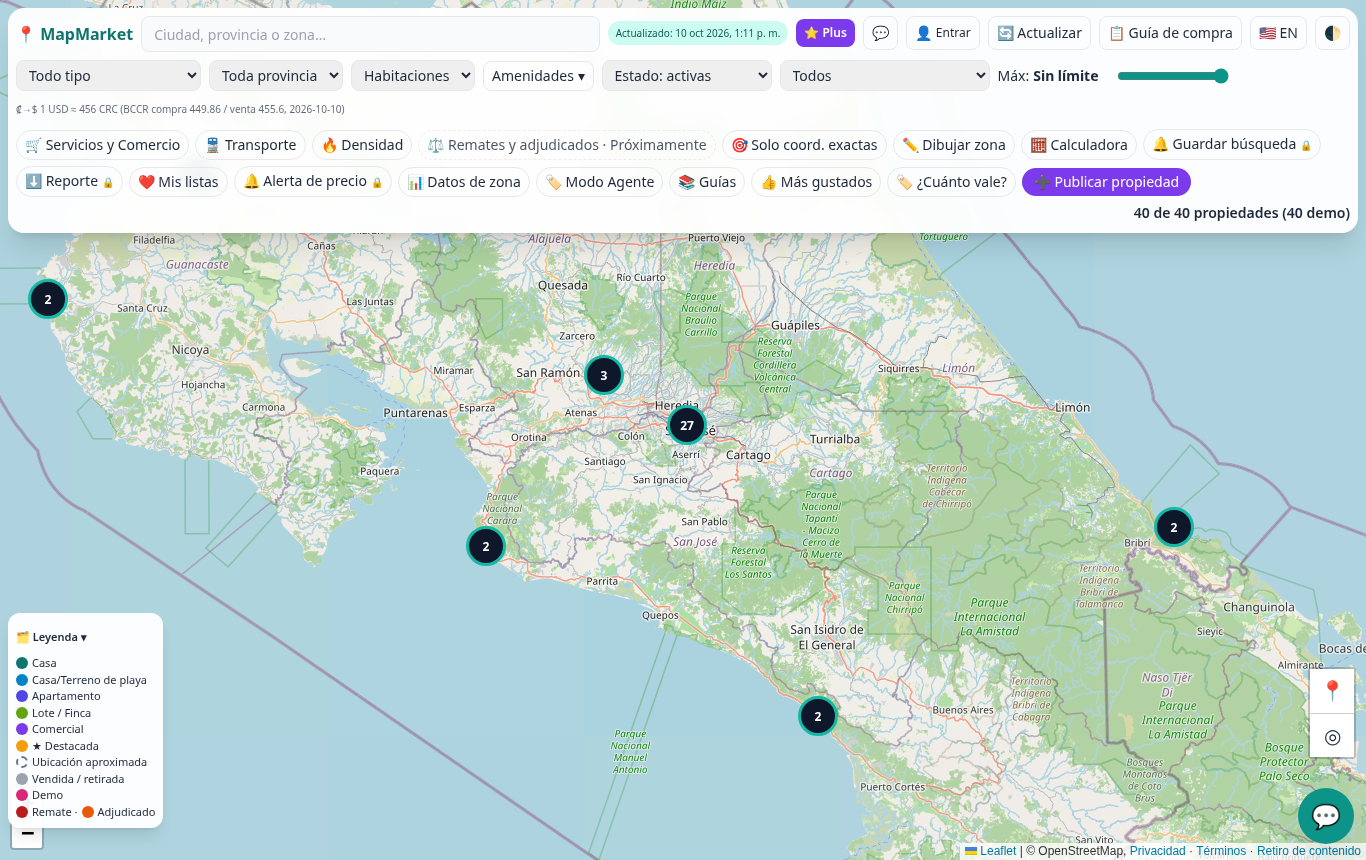
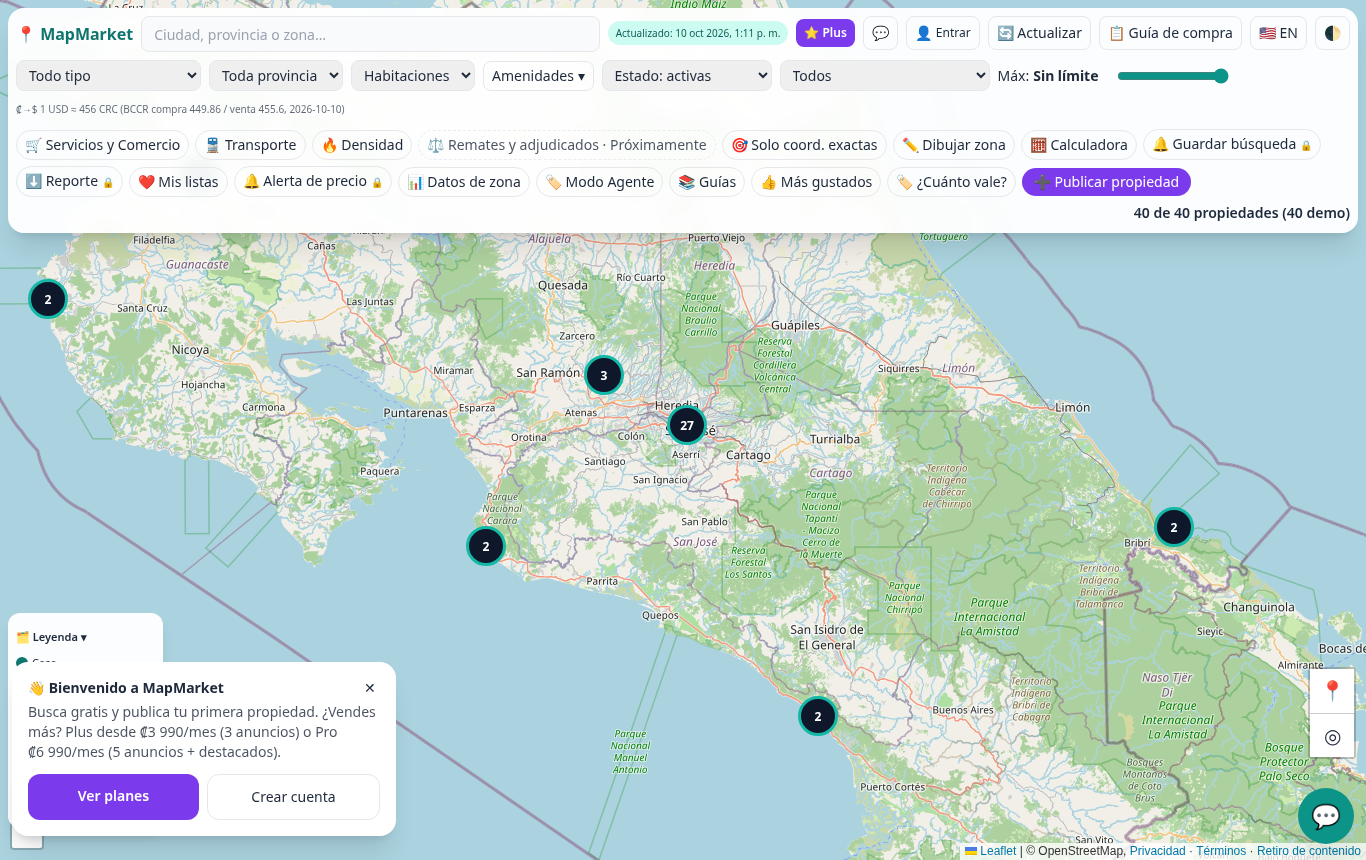
Admin: Reportes agrupados con acciones directas, Retiros y Fotos reportadas (v12 RPCs + auditoría); i18n: sufijos calculadora, caché de diccionario y pintado temprano

Changed region(s): [[0.0, 0.7558, 0.3075, 0.9977]]

diff --git a/js/admin-gestion.js b/js/admin-gestion.js
@@ -105,6 +105,104 @@
     return `<div class="overflow-x-auto"><table class="w-full text-xs bg-white dark:bg-slate-800 rounded-xl"><tr class="text-left opacity-60"><th class="p-2">Cuándo</th><th>Admin</th><th>Acción</th><th>Objetivo</th><th>Detalle</th><th>Nota</th></tr>${data.map(r => `<tr class="border-t dark:border-slate-700 align-top"><td class="p-2 whitespace-nowrap">${d(r.created_at)}</td><td>${E((r.admin_id || '').slice(0, 8))}</td><td>${E(r.accion)}</td><td>${E((r.objetivo_id || '').slice(0, 8))}</td><td class="max-w-[320px] break-all">${E(JSON.stringify(r.detalle))}</td><td>${E(r.nota || '')}</td></tr>`).join('')}</table></div>`;
   }];
 
+  // ---------- Reportes (agrupados por anuncio, con acciones directas) ----------
+  const R = { e: 'abierto', q: '' };
+  const MOT = { vendida: 'Ya se vendió', datos: 'Datos incorrectos', duplicado: 'Duplicado', fraude: 'Fraude/estafa', otro: 'Otro' };
+  const chip = (t, c = 'bg-slate-100 text-slate-700 dark:bg-slate-700 dark:text-slate-100') => `<span class="text-xs rounded-full px-2 ${c}">${E(t)}</span>`;
+  const uuidDe = pid => { const m = String(pid || '').match(/^u-([0-9a-f-]{36})$/i); return m ? m[1] : null };
+  T.reportes = ['🚩 Reportes', async () => {
+    let qy = C.from('reportes').select('*').order('created_at', { ascending: false }).limit(500);
+    qy = R.e === 'abierto' ? qy.eq('estado', 'nuevo') : R.e === 'cerrado' ? qy.neq('estado', 'nuevo') : qy;
+    const [r, u] = await Promise.all([qy, C.from('reportes_usuarios').select('*').order('created_at', { ascending: false }).limit(100)]); if (r.error) throw r.error;
+    const G = {}; r.data.forEach(x => (G[x.property_id] = G[x.property_id] || []).push(x));
+    const uids = [...new Set(Object.keys(G).map(uuidDe).filter(Boolean))];
+    const an = uids.length ? ((await C.from('anuncios').select('id,titulo,precio,moneda,estado,imagenes,owner_id,provincia,tipo,lat,lon,descripcion').in('id', uids)).data || []) : [];
+    const AN = Object.fromEntries(an.map(a => [a.id, a]));
+    const owners = [...new Set(an.map(a => a.owner_id).filter(Boolean))];
+    const pf = owners.length ? ((await C.from('profiles').select('id,nombre,baneado').in('id', owners)).data || []) : [];
+    const PF = Object.fromEntries(pf.map(p => [p.id, p]));
+    let grupos = Object.entries(G).map(([pid, rs]) => ({ pid, rs, a: AN[uuidDe(pid)] }));
+    if (R.q) { const q = R.q.toLowerCase(); grupos = grupos.filter(g => (g.pid + ' ' + (g.a?.titulo || '')).toLowerCase().includes(q)) }
+    grupos.sort((x, y) => y.rs.length - x.rs.length);
+    bind(async (g, b, card) => {
+      if (g === 'filtrar') { R.e = $('rE').value; R.q = $('rQ').value.trim(); return rerender() }
+      if (g === 'todos') { document.querySelectorAll('#out input.gsel').forEach(x => x.checked = b.dataset.on !== '1'); b.dataset.on = b.dataset.on === '1' ? '0' : '1'; return }
+      const [acc, m] = g.split(':'); const cards = m ? sel().map(v => document.querySelector(`#out [data-id="${CSS.escape(v)}"]`)).filter(Boolean) : [card];
+      if (!cards.length) return alert('Selecciona reportes');
+      const repIds = cards.flatMap(c => c.dataset.rids.split(',').map(Number));
+      if (acc === 'resuelto' || acc === 'descartado' || acc === 'reabrir') { const nota = await ask(`${acc === 'reabrir' ? 'Reabrir' : acc === 'resuelto' ? 'Marcar resuelto' : 'Descartar'}: ${repIds.length} reporte(s). Nota:`); if (nota === null) return; await rpc('admin_reportes', { ids: repIds, accion: acc, nota: nota || null }); return rerender() }
+      if (acc === 'mapa') { window.open('index.html?p=' + encodeURIComponent(card.dataset.pid), '_blank'); return }
+      if (acc === 'bloquear') { const o = card.dataset.owner; if (!o) return alert('Este anuncio no tiene dueño en MapMarket.'); const nota = await ask('¿Suspender al dueño (no podrá publicar) y pausar sus anuncios? Motivo:'); if (nota === null) return; await rpc('admin_bloquear_dueno', { uid: o, nota }); return rerender() }
+      const ids = cards.map(c => uuidDe(c.dataset.pid)).filter(Boolean); if (!ids.length) return alert('Solo se puede actuar sobre anuncios publicados en MapMarket.');
+      const ok = await Admin.anuncios(ids, acc, an); if (ok && acc === 'eliminar') await rpc('admin_reportes', { ids: repIds, accion: 'resuelto', nota: 'Anuncio eliminado' }); rerender()
+    });
+    const est = { aprobado: 'bg-emerald-100 text-emerald-900', pendiente: 'bg-amber-100 text-amber-900', pausado: 'bg-slate-200 text-slate-800', rechazado: 'bg-red-100 text-red-900' };
+    return `<div class="flex flex-wrap gap-2 mb-3"><select id="rE" aria-label="Estado" class="h-10 px-2 rounded-lg border dark:bg-slate-800">${[['abierto', 'Abiertos'], ['cerrado', 'Resueltos / descartados'], ['todos', 'Todos']].map(([v, t]) => `<option value="${v}" ${R.e === v ? 'selected' : ''}>${t}</option>`).join('')}</select><input id="rQ" value="${E(R.q)}" placeholder="Buscar anuncio" aria-label="Buscar anuncio" class="h-10 px-2 rounded-lg border dark:bg-slate-800 flex-1 min-w-[160px]">${btn('filtrar', 'Filtrar')}</div>
+      <div class="flex flex-wrap gap-1.5 mb-2 text-sm">${btn('todos', '☑ Seleccionar todo')}${btn('resuelto:m', '✔ Resolver sel.')}${btn('descartado:m', '✖ Descartar sel.')}${btn('pausar:m', 'Pausar sel.')}${btn('rechazar:m', 'Rechazar sel.')}${btn('eliminar:m', '🗑 Eliminar sel.', 'text-red-600')}</div>
+      <p class="text-xs opacity-70 mb-2">${grupos.length} anuncios · ${r.data.length} reportes</p>
+      ${grupos.map(({ pid, rs, a }) => { const o = a && PF[a.owner_id]; const cnt = {}; rs.forEach(x => cnt[x.motivo] = (cnt[x.motivo] || 0) + 1); const abiertos = rs.some(x => x.estado === 'nuevo');
+        return `<article data-id="${E(pid)}" data-pid="${E(pid)}" data-rids="${rs.map(x => x.id).join(',')}" data-owner="${a?.owner_id || ''}" class="bg-white dark:bg-slate-800 rounded-xl shadow p-3 mb-2 text-sm flex gap-3"><input type="checkbox" class="gsel w-5 h-5 mt-1" value="${E(pid)}" aria-label="Seleccionar">
+        ${a?.imagenes?.[0] ? `<img src="${E(a.imagenes[0])}" alt="Foto" loading="lazy" class="w-20 h-20 object-cover rounded">` : '<div class="w-20 h-20 rounded bg-slate-200 dark:bg-slate-700 flex items-center justify-center text-xs">Sin fotos</div>'}
+        <div class="flex-1 min-w-0"><div class="flex flex-wrap gap-1 items-center"><b>${E(a?.titulo || pid)}</b>${a ? chip(a.estado, est[a.estado]) : chip('sin dueño en MapMarket')}${chip('🚩 ' + rs.length, 'bg-red-100 text-red-900 dark:bg-red-900 dark:text-red-100')}${abiertos ? '' : chip('cerrado')}</div>
+          <div class="text-xs opacity-70">${a ? `${E(a.tipo)} · ${E(a.provincia)} · ${money(a)} · ` : ''}${o ? `Dueño: ${E(o.nombre || a.owner_id.slice(0, 8))}${o.baneado ? ' (suspendido)' : ''}` : ''}</div>
+          <div class="text-xs mt-1">${Object.entries(cnt).map(([k, v]) => chip(`${MOT[k] || k} ×${v}`, 'bg-amber-50 text-amber-900 dark:bg-amber-900/50 dark:text-amber-100')).join(' ')}</div>
+          <ul class="text-xs mt-1 opacity-80">${rs.slice(0, 5).map(x => `<li>${d(x.created_at)} · ${E(MOT[x.motivo] || x.motivo)}${x.detalle ? ': ' + E(x.detalle) : ''}${x.estado !== 'nuevo' ? ` · <i>${E(x.estado)}${x.nota_admin ? ' — ' + E(x.nota_admin) : ''}</i>` : ''}</li>`).join('')}${rs.length > 5 ? `<li>+${rs.length - 5}…</li>` : ''}</ul>
+          <div class="flex flex-wrap gap-1.5 mt-2">${btn('mapa', '🗺 Ver en mapa')}${a ? btn('editar', '✏ Editar') + (a.estado === 'pausado' ? btn('reactivar', '▶ Reactivar') : btn('pausar', '⏸ Pausar')) + btn('rechazar', '⛔ Rechazar') + btn('eliminar', '🗑 Eliminar', 'text-red-600') + (a.owner_id ? btn('bloquear', '🚫 Bloquear dueño') : '') : ''}${abiertos ? btn('resuelto', '✔ Resuelto') + btn('descartado', '✖ Descartar') : btn('reabrir', '↩ Reabrir')}</div></div></article>` }).join('') || '<p class="opacity-70">Sin reportes.</p>'}
+      <h2 class="font-bold mt-6">Usuarios reportados (chat)</h2>${(u.data || []).length ? '<ul class="text-sm mt-2 space-y-1">' + u.data.map(x => `<li class="bg-white dark:bg-slate-800 rounded p-2">${d(x.created_at)} · <a class="underline" href="mensajes.html?c=${x.conversacion_id}">conv #${x.conversacion_id ?? '–'}</a> · usuario ${E((x.reported_id || '').slice(0, 8))}… · ${E(x.motivo)}</li>`).join('') + '</ul>' : '<p class="opacity-70 text-sm">Ninguno.</p>'}`
+  }];
+
+  // ---------- Retiros ----------
+  const RT = { e: 'pendiente' };
+  T.retiros = ['📰 Retiros', async () => {
+    let qy = C.from('retiros').select('*').order('created_at', { ascending: false }).limit(300); if (RT.e !== 'todos') qy = RT.e === 'cerrado' ? qy.neq('estado', 'pendiente') : qy.eq('estado', RT.e);
+    const { data, error } = await qy; if (error) throw error;
+    const ref = x => { const m = String(x.listing_ref).match(/u-([0-9a-f-]{36})/i) || String(x.listing_ref).match(/([0-9a-f]{8}-[0-9a-f-]{27})/i); return m ? m[1] : null };
+    const ids = [...new Set(data.map(ref).filter(Boolean))];
+    const an = ids.length ? ((await C.from('anuncios').select('id,titulo,precio,moneda,estado,imagenes,owner_id,provincia,tipo').in('id', ids)).data || []) : []; const AN = Object.fromEntries(an.map(a => [a.id, a]));
+    bind(async (g, b, card) => {
+      if (g === 'filtrar') { RT.e = $('tE').value; return rerender() }
+      if (g === 'todos') { document.querySelectorAll('#out input.gsel').forEach(x => x.checked = true); return }
+      const [acc, m] = g.split(':'); const cards = m ? sel().map(v => document.querySelector(`#out [data-id="${v}"]`)).filter(Boolean) : [card]; if (!cards.length) return alert('Selecciona solicitudes');
+      const rids = cards.map(c => +c.dataset.id);
+      if (['retirado', 'corregido', 'rechazado', 'pendiente'].includes(acc)) { const nota = await ask(`Marcar ${rids.length} solicitud(es) como «${acc}». Nota:`); if (nota === null) return; await rpc('admin_retiros', { ids: rids, estado_nuevo: acc, nota: nota || null }); return rerender() }
+      if (acc === 'mapa') { window.open('index.html?p=' + encodeURIComponent('u-' + card.dataset.aid), '_blank'); return }
+      const aids = cards.map(c => c.dataset.aid).filter(Boolean); if (!aids.length) return alert('La solicitud no corresponde a un anuncio publicado en MapMarket.');
+      const ok = await Admin.anuncios(aids, acc, an); if (ok && (acc === 'eliminar' || acc === 'pausar')) await rpc('admin_retiros', { ids: rids, estado_nuevo: 'retirado', nota: 'Anuncio ' + acc }); rerender()
+    });
+    return `<div class="flex flex-wrap gap-2 mb-3"><select id="tE" aria-label="Estado" class="h-10 px-2 rounded-lg border dark:bg-slate-800">${[['pendiente', 'Pendientes'], ['cerrado', 'Atendidas'], ['todos', 'Todas']].map(([v, t]) => `<option value="${v}" ${RT.e === v ? 'selected' : ''}>${t}</option>`).join('')}</select>${btn('filtrar', 'Filtrar')}</div>
+      <div class="flex flex-wrap gap-1.5 mb-2 text-sm">${btn('todos', '☑ Seleccionar todo')}${btn('retirado:m', 'Marcar retirado sel.')}${btn('rechazado:m', 'Rechazar solicitud sel.')}${btn('pausar:m', 'Pausar anuncios sel.')}</div>
+      ${data.map(x => { const a = AN[ref(x)]; return `<article data-id="${x.id}" data-aid="${a?.id || ''}" class="bg-white dark:bg-slate-800 rounded-xl shadow p-3 mb-2 text-sm flex gap-3"><input type="checkbox" class="gsel w-5 h-5 mt-1" value="${x.id}" aria-label="Seleccionar">
+        ${a?.imagenes?.[0] ? `<img src="${E(a.imagenes[0])}" alt="Foto" loading="lazy" class="w-20 h-20 object-cover rounded">` : ''}
+        <div class="flex-1 min-w-0"><div class="flex flex-wrap gap-1 items-center"><b>${E(a?.titulo || x.listing_ref)}</b>${chip(x.estado, x.estado === 'pendiente' ? 'bg-amber-100 text-amber-900' : undefined)}${a ? chip('anuncio: ' + a.estado) : ''}<span class="text-xs opacity-60 ml-auto">${d(x.created_at)}</span></div>
+          ${a ? `<div class="text-xs opacity-70">${E(a.tipo)} · ${E(a.provincia)} · ${money(a)}</div>` : ''}
+          <p class="text-xs mt-1">${E(x.nombre)} (<a class="underline" href="mailto:${E(x.email)}?subject=${encodeURIComponent('Tu solicitud de retiro en MapMarket')}">${E(x.email)}</a>) · ${E(x.relacion)}</p><p class="text-xs opacity-80 whitespace-pre-wrap">${E(x.motivo)}</p>${x.nota_admin ? `<p class="text-xs italic opacity-70">Nota: ${E(x.nota_admin)}</p>` : ''}
+          <div class="flex flex-wrap gap-1.5 mt-2">${a ? btn('mapa', '🗺 Ver en mapa') + btn('editar', '✏ Editar') + (a.estado === 'pausado' ? btn('reactivar', '▶ Reactivar') : btn('pausar', '⏸ Pausar')) + btn('eliminar', '🗑 Eliminar', 'text-red-600') : ''}${btn('retirado', 'Marcar retirado')}${btn('corregido', 'Corregido')}${btn('rechazado', 'Rechazar solicitud')}${x.estado !== 'pendiente' ? btn('pendiente', '↩ Reabrir') : ''}</div></div></article>` }).join('') || '<p class="opacity-70">Sin solicitudes.</p>'}`
+  }];
+
+  // ---------- Fotos reportadas ----------
+  const FR = { e: 'abierto' };
+  T.fotosrep = ['📷 Fotos reportadas', async () => {
+    const data = await rpc('admin_lista_reportes_fotos', { p_estado: FR.e }) || [];
+    bind(async (g, b, card) => {
+      if (g === 'filtrar') { FR.e = $('fE').value; return rerender() }
+      if (g === 'ver') { b.closest('figure').querySelector('img').classList.toggle('blur-xl'); return }
+      if (g === 'todos') { document.querySelectorAll('#out input.gsel').forEach(x => x.checked = true); return }
+      const [acc, m] = g.split(':'); const figs = m ? sel().map(v => document.querySelector(`#out figure[data-id="${CSS.escape(v)}"]`)).filter(Boolean) : [card]; if (!figs.length) return alert('Selecciona imágenes');
+      const urls = figs.map(f => f.dataset.url), imgIds = figs.map(f => +f.dataset.img).filter(Boolean);
+      const nota = await ask(`${acc}: ${figs.length} foto(s). Nota:`); if (nota === null) return;
+      if (['aprobar', 'rechazar', 'eliminar', 'banear'].includes(acc)) {
+        if (!imgIds.length) return alert('Esta foto no está en la cola de moderación.');
+        if (acc === 'eliminar') { const paths = urls.map(u => u.split('/object/public/anuncios/')[1]).filter(Boolean); if (paths.length) await C.storage.from('anuncios').remove(paths) }
+        await rpc('admin_imagenes', { ids: imgIds, accion: acc, nota }); await rpc('admin_reportes_fotos', { urls, accion: acc === 'aprobar' ? 'descartado' : 'resuelto', nota });
+      } else await rpc('admin_reportes_fotos', { urls, accion: acc, nota });
+      rerender()
+    });
+    return `<div class="flex flex-wrap gap-2 mb-3"><select id="fE" aria-label="Estado" class="h-10 px-2 rounded-lg border dark:bg-slate-800">${[['abierto', 'Abiertos'], ['cerrado', 'Resueltos / descartados'], ['todos', 'Todos']].map(([v, t]) => `<option value="${v}" ${FR.e === v ? 'selected' : ''}>${t}</option>`).join('')}</select>${btn('filtrar', 'Filtrar')}</div>
+      <div class="flex flex-wrap gap-1.5 mb-2 text-sm">${btn('todos', '☑ Seleccionar todo')}${btn('rechazar:m', '⛔ Ocultar sel.')}${btn('aprobar:m', '✅ Aprobar sel.')}${btn('descartado:m', '✖ Descartar reportes sel.')}</div>
+      <div class="grid grid-cols-2 sm:grid-cols-3 lg:grid-cols-4 gap-3">${data.map((x, i) => `<figure data-id="f${i}" data-url="${E(x.url)}" data-img="${x.img_id || ''}" class="bg-white dark:bg-slate-800 rounded-xl shadow p-2 text-xs"><div class="relative overflow-hidden rounded"><input type="checkbox" class="gsel absolute top-1 left-1 w-5 h-5 z-10" value="f${i}" aria-label="Seleccionar"><img src="${E(x.url)}" alt="Imagen a revisar" loading="lazy" class="w-full h-32 object-cover blur-xl"></div>
+        <figcaption class="mt-1"><b>🚩 ${x.n}</b> · ${E(x.img_estado || 'sin moderación')}<div class="opacity-70">${E((x.motivos || []).join(', '))} · ${d(x.ultimo)}</div><div class="flex flex-wrap gap-1 mt-1">${btn('ver', '👁')}${btn('aprobar', '✅')}${btn('rechazar', '⛔')}${btn('eliminar', '🗑')}${x.owner_id ? btn('banear', '🚫 Ban') : ''}${FR.e === 'abierto' ? btn('descartado', '✖') : btn('reabrir', '↩')}</div></figcaption></figure>`).join('') || '<p class="opacity-70">Sin fotos reportadas.</p>'}</div>`
+  }];
+
   }
   // Acciones de anuncios compartidas (panel y ficha del mapa)
   window.Admin = {

diff --git a/js/i18n.js b/js/i18n.js
@@ -26,12 +26,16 @@
     [/^(\d+) anuncios? activos?$/, (m, n) => `${n} active listing${n === '1' ? '' : 's'}`],
     [/^Encontré (\d+) propiedad(es)?/, (m, n) => `I found ${n} propert${n === '1' ? 'y' : 'ies'}`],
   ];
+  const SUF = [[/\/mes\b/g, '/mo'], [/\/año\b/g, '/yr'], [/\(pago trimestral /g, '(paid quarterly '], [/; seguros aparte\./g, '; insurance not included.'], [/; cuota condominal /g, '; HOA fee '],
+    [/; posible impuesto solidario/g, '; possible luxury home tax'], [/\(construcción > ~₡143M: 0,25–0,55% anual\)/g, '(building > ~₡143M: 0.25–0.55% per year)'], [/^Cuota \+ condominio = /, 'Payment + HOA = '], [/% de tu ingreso → /g, '% of your income → '], [/ \+ condominio /g, ' + HOA '], [/\bpor encima\b/g, 'above'], [/\bpor debajo\b/g, 'below']];
+  const suf = s => { for (const [r, v] of SUF) s = s.replace(r, v); return s };
   const SKIP = 'SCRIPT,STYLE,NOSCRIPT,TEXTAREA,CODE,PRE,svg'.split(',');
   const done = new WeakMap();
   function trText(raw) {
     const k = raw.replace(/\s+/g, ' ').trim(); if (!k || !/[A-Za-zÁÉÍÓÚÑáéíóúñ]/.test(k)) return null;
     let t = D[k]; if (!t) for (const [r, f] of PAT) if (r.test(k)) { t = k.replace(r, f); break }
     if (!t) { const f = frag(k); if (f !== k) t = f }
+    { const b = t || k, u = suf(b); if (u !== b) t = u }
     if (!t || t === k) return null;
     const lead = raw.match(/^\s*/)[0], trail = raw.match(/\s*$/)[0]; return lead + t + trail;
   }
@@ -94,21 +98,36 @@
       try { return await ask(s) } finally { orig = null }
     };
   }
-  async function start() {
-    if (lang === 'en') {
-      try { D = await PRE } catch (e) { D = {} }
-      const keys = Object.keys(D).filter(k => k.length >= 8 && /\s/.test(k) && D[k] !== k).sort((a, b) => b.length - a.length).slice(0, 1500);
-      keys.forEach(k => RXmap[k] = D[k]);
-      if (keys.length) RX = new RegExp('(?<![\\wÁÉÍÓÚÑáéíóúñ])(' + keys.map(k => k.replace(/[.*+?^${}()|[\]\\]/g, '\\$&')).join('|') + ')(?![\\wÁÉÍÓÚÑáéíóúñ])', 'g');
-      head(); node(document.body);
-      new MutationObserver(ms => { for (const m of ms) { if (m.type === 'characterData') node(m.target); else m.addedNodes.forEach(node) } if (document.title && /[áéíóúñ]|·/.test(document.title)) head() }).observe(document.documentElement, { childList: true, subtree: true, characterData: true });
-      const ac = window.alert, cf = window.confirm, pr = window.prompt;
-      window.alert = m => ac(T(String(m))); window.confirm = m => cf(T(String(m))); window.prompt = (m, d) => pr(T(String(m)), d);
-    }
+  function build(d) {
+    D = d || {}; RXmap = {};
+    const keys = Object.keys(D).filter(k => k.length >= 8 && /\s/.test(k) && D[k] !== k).sort((a, b) => b.length - a.length).slice(0, 1500);
+    keys.forEach(k => RXmap[k] = D[k]);
+    RX = keys.length ? new RegExp('(?<![\\wÁÉÍÓÚÑáéíóúñ])(' + keys.map(k => k.replace(/[.*+?^${}()|[\]\\]/g, '\\$&')).join('|') + ')(?![\\wÁÉÍÓÚÑáéíóúñ])', 'g') : null;
+  }
+  let activo = false;
+  function activar() { // traduce lo ya parseado y observa lo que llegue (también durante el parseo del HTML)
+    if (activo) return; activo = true;
+    head(); if (document.body) node(document.body);
+    new MutationObserver(ms => { for (const m of ms) { if (m.type === 'characterData') node(m.target); else m.addedNodes.forEach(node) } if (document.title && /[áéíóúñ]|·/.test(document.title)) head() }).observe(document.documentElement, { childList: true, subtree: true, characterData: true });
+    const ac = window.alert, cf = window.confirm, pr = window.prompt;
+    window.alert = m => ac(T(String(m))); window.confirm = m => cf(T(String(m))); window.prompt = (m, d) => pr(T(String(m)), d);
+    document.documentElement.classList.remove('mm-i18n-wait');
+  }
+  function final() {
+    if (lang === 'en' && activo) { head(); node(document.body) }
     document.documentElement.classList.remove('mm-i18n-wait');
     selector(); hreflang(); chatEN(); window.addEventListener('mm-feat-ready', () => { selector(); chatEN() });
   }
-  const PRE = lang === 'en' ? fetch('data/i18n/en.json').then(r => r.json()) : null;
-  if (lang === 'en') { document.documentElement.classList.add('mm-i18n-wait'); const st = document.createElement('style'); st.textContent = '.mm-i18n-wait body{visibility:hidden}'; document.head.appendChild(st); setTimeout(() => document.documentElement.classList.remove('mm-i18n-wait'), 2500) }
-  document.readyState === 'loading' ? document.addEventListener('DOMContentLoaded', start) : start();
+  if (lang === 'en') {
+    // Caché local del diccionario: pinta en inglés de inmediato en visitas siguientes; se refresca en segundo plano
+    const CK = 'mm_i18n_en'; let cache = null; try { cache = JSON.parse(localStorage.getItem(CK) || 'null') } catch (e) { }
+    const red = fetch('data/i18n/en.json', { cache: 'no-cache' }).then(r => r.ok ? r.text() : Promise.reject()).then(txt => { try { if (!cache || cache.t !== txt.length + ':' + txt.slice(-40)) localStorage.setItem(CK, JSON.stringify({ t: txt.length + ':' + txt.slice(-40), d: JSON.parse(txt) })) } catch (e) { } return JSON.parse(txt) });
+    if (cache && cache.d) { build(cache.d); activar(); red.then(d => { if (JSON.stringify(d).length !== JSON.stringify(D).length) { build(d); node(document.body) } }).catch(() => { }) }
+    else {
+      document.documentElement.classList.add('mm-i18n-wait'); const st = document.createElement('style'); st.textContent = '.mm-i18n-wait body{visibility:hidden}'; document.head.appendChild(st);
+      setTimeout(() => document.documentElement.classList.remove('mm-i18n-wait'), 1200);
+      red.then(d => { build(d); activar() }).catch(() => { build({}); activar() });
+    }
+  }
+  document.readyState === 'loading' ? document.addEventListener('DOMContentLoaded', final) : final();
 })();

diff --git a/sw.js b/sw.js
@@ -2,7 +2,7 @@
    - Nunca intercepta Supabase, Tilopay, WhatsApp ni peticiones que no sean GET.
    - HTML y data/*.json: red primero (datos frescos), caché solo si no hay conexión.
    - Estáticos propios y CDNs (Tailwind, Leaflet, teselas OSM): caché con revalidación. */
-const V = 'mm-v13', SHELL = ['./', 'js/i18n.js', 'data/i18n/en.json', 'data/faq_en.json', 'index.html', 'login.html', 'planes.html', 'cuenta.html', 'confirmar.html', 'guias.html', 'mensajes.html', 'privacidad.html', 'terminos.html', 'offline.html', 'eliminar-cuenta.html', 'admin.html', '404.html', 'js/publicar.js', 'js/extras.js', 'js/admin-capa.js', 'js/cerca.js', 'js/permisos.js', 'js/admin-gestion.js', 'js/refrescar.js', 'js/planes-app.js', 'js/dibujo.js', 'js/datos.js', 'data/cr_division.json', 'js/features.js', 'js/social.js', 'js/config.js', 'js/auth.js', 'manifest.webmanifest', 'icons/icon-192.png'];
+const V = 'mm-v14', SHELL = ['./', 'js/i18n.js', 'data/i18n/en.json', 'data/faq_en.json', 'index.html', 'login.html', 'planes.html', 'cuenta.html', 'confirmar.html', 'guias.html', 'mensajes.html', 'privacidad.html', 'terminos.html', 'offline.html', 'eliminar-cuenta.html', 'admin.html', '404.html', 'js/publicar.js', 'js/extras.js', 'js/admin-capa.js', 'js/cerca.js', 'js/permisos.js', 'js/admin-gestion.js', 'js/refrescar.js', 'js/planes-app.js', 'js/dibujo.js', 'js/datos.js', 'data/cr_division.json', 'js/features.js', 'js/social.js', 'js/config.js', 'js/auth.js', 'manifest.webmanifest', 'icons/icon-192.png'];
 self.addEventListener('install', e => { e.waitUntil(caches.open(V).then(c => c.addAll(SHELL)).catch(() => {})); self.skipWaiting() });
 self.addEventListener('activate', e => { e.waitUntil(caches.keys().then(k => Promise.all(k.filter(x => x !== V).map(x => caches.delete(x)))).then(() => self.clients.claim())) });
 const NO = /supabase\.co|onvopay|tilopay|wa\.me|whatsapp|nominatim|overpass|api\./i;
